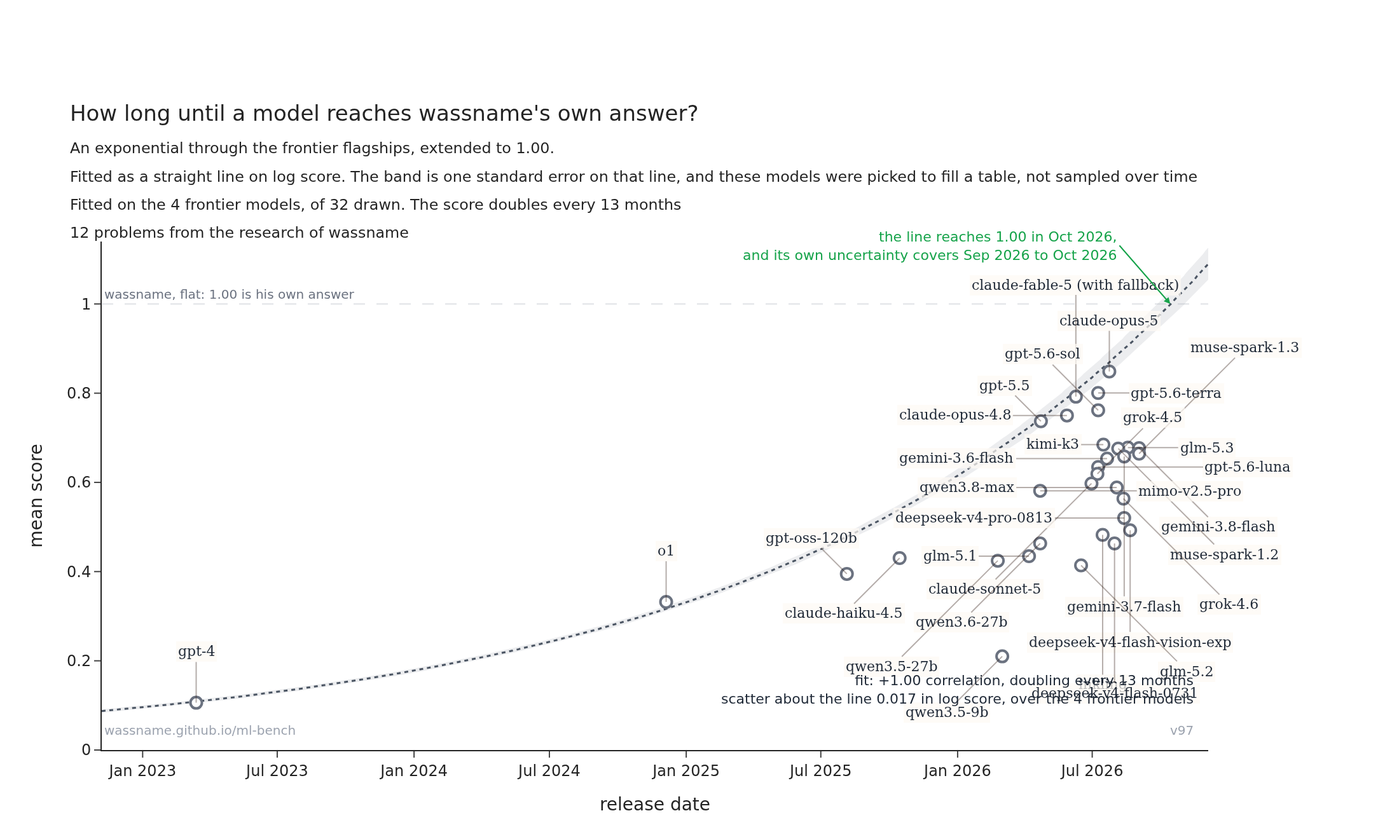
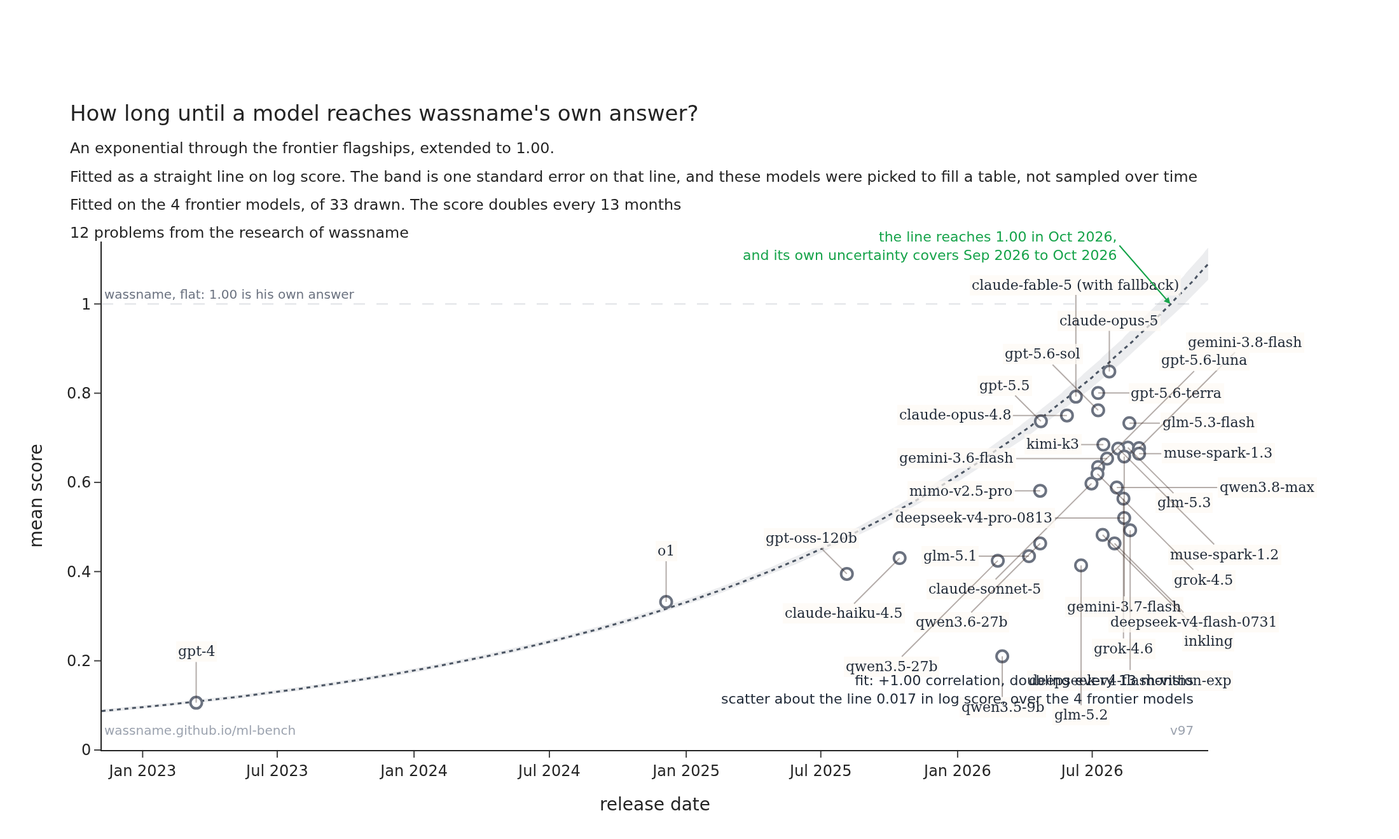
results 2026-09-11

diff --git a/bench.py b/bench.py
@@ -1430,7 +1430,7 @@ def _ktok_text(row: dict) -> str:
     share = row.get("reasoning share")
     return (f"{row['tok/answer']:,.0f} tokens per answer, reasoning included, against a requested "
             f"{ANSWER_MAX_TOKENS:,}-token thinking budget"
-            + (f"<br>reasoning effort '{EFFORT_ARM}', and "
+            + (f"<br>reasoning effort '{EFFORT_ARM}' (this model's lowest listed thinking rung), "
                f"{share:.0%} of the output was reasoning" if share is not None else ""))
 
 

diff --git a/results.md b/results.md
@@ -16,45 +16,45 @@ means a model has to work the answer out rather than recall it. Code and numbers
 12 problems from the research of [wassname](https://wassname.org). The best model scores
 0.85, where 1.00 is wassname's own answer.
 
-| model                            |   score↑ | +-     | answered   |   answers/q |     $/run↓ |   tok/answer↓ |   pts/Mtok↑ |   AP#1↑ |   CW#2↑ |   KL#3↑ |   MC#4↑ |   NP#5↑ |   OL#6↑ |   PC#7↑ |   SV#8↑ |   TR#9↑ |   TS#10↑ |   VG#11↑ |   VJ#12↑ |
-|:---------------------------------|------------------:|:-------|:-----------------------|------------:|-----------:|----------------------------:|------------------------:|----------------------------:|---------------------------------:|-----------------------------:|---------------------:|----------------------:|--------------------------:|----------------------:|-----------------------:|-----------------------:|------------------------------:|--------------------------------:|----------------------:|
-| claude-fable-5.1 (with fallback) |         **+0.85** | ±0.050 | 11/12                  |           1 |       $2.0 |                       3,033 |                      23 |                       +0.72 |                            +0.78 |                        +0.58 |                +0.86 |                 +1.06 |                     +1.11 |             **+0.77** |              **+0.88** |                  +0.97 |                         +0.81 |                         *+0.61* |             **+1.06** |
-| claude-opus-5                    |         **+0.85** | ±0.050 | 12/12                  |           1 |      $0.78 |                       2,354 |                      30 |                       +0.73 |                            +0.79 |                        +0.62 |            **+0.96** |                 +1.01 |                     +1.06 |             **+0.80** |                  +0.67 |                  +1.06 |                         +0.81 |                           +0.61 |             **+1.06** |
-| gpt-6-astra                      |         **+0.82** | ±0.054 | 12/12                  |           1 |      $0.87 |                       1,354 |                      50 |                       +0.73 |                            +0.83 |                        +0.66 |                +0.61 |                 +1.07 |                     +1.07 |                 +0.74 |              **+0.87** |                  +0.51 |                         +0.89 |                           +0.76 |             **+1.07** |
-| gpt-5.6-terra                    |         **+0.80** | ±0.043 | 12/12                  |           1 |      $0.46 |                       3,110 |                      21 |                       +0.60 |                            +0.57 |                    **+0.96** |                +0.72 |                 +0.97 |                     +1.01 |                 +0.74 |              **+0.85** |                  +0.63 |                         +0.82 |                       **+0.83** |                 +0.91 |
-| claude-fable-5 (with fallback)   |         **+0.79** | ±0.047 | 9/12                   |           1 |      $0.98 |                       1,444 |                      46 |                     *+0.73* |                            +0.79 |                        +0.71 |                +0.72 |                 +0.89 |                   *+1.06* |                 +0.69 |                *+0.67* |              **+1.14** |                         +0.67 |                           +0.61 |                 +0.82 |
-| gpt-5.6-sol                      |             +0.76 | ±0.095 | 12/12                  |           1 |      $0.23 |                       1,809 |                      35 |                       +0.73 |                            -0.10 |                        +0.88 |                +0.81 |             **+1.13** |                     +1.01 |             **+0.79** |              **+0.85** |                  +0.47 |                     **+0.96** |                           +0.56 |             **+1.04** |
-| claude-opus-4.8                  |             +0.75 | ±0.083 | 12/12                  |           1 |      $0.79 |                       2,444 |                      26 |                       +0.70 |                        **+0.88** |                        +0.55 |                +0.08 |                 +0.91 |                     +1.06 |                 +0.69 |                  +0.52 |                  +1.06 |                         +0.86 |                           +0.64 |             **+1.06** |
-| gpt-5.5                          |             +0.74 | ±0.078 | 12/12                  |           1 |      $0.99 |                       2,605 |                      24 |                       +0.73 |                            +0.74 |                        +0.51 |                +0.22 |                 +1.01 |                 **+1.17** |                 +0.60 |                  +0.76 |                  +0.43 |                     **+0.95** |                           +0.73 |                 +0.99 |
-| kimi-k3                          |             +0.68 | ±0.067 | 12/12                  |           1 |      $0.30 |                       1,992 |                      29 |                       +0.37 |                            +0.69 |                        +0.55 |                +0.26 |                 +1.01 |                     +1.02 |                 +0.70 |                  +0.69 |                  +0.71 |                         +0.72 |                           +0.55 |                 +0.94 |
-| glm-5.3                          |             +0.68 | ±0.074 | 12/12                  |           1 |     $0.081 |                       1,345 |                      42 |                       +0.73 |                            +0.19 |                        +0.49 |                +0.38 |                 +0.97 |                     +1.03 |             **+0.81** |              **+0.83** |                  +0.43 |                         +0.67 |                           +0.69 |                 +0.89 |
-| gemini-3.8-flash                 |             +0.68 | ±0.078 | 12/12                  |           1 |     $0.063 |                       1,277 |                      44 |                       +0.62 |                            +0.03 |                        +0.55 |                +0.81 |                 +0.99 |                     +1.04 |             **+0.79** |                  +0.77 |                  +0.46 |                         +0.61 |                           +0.59 |                 +0.87 |
-| muse-spark-1.2                   |             +0.68 | ±0.093 | 12/12                  |           1 |      $0.10 |                       1,880 |                      30 |                       +0.73 |                            +0.06 |                        +0.69 |                +0.18 |                 +1.01 |                     +1.11 |                 +0.52 |              **+0.84** |                  +0.51 |                         +0.77 |                           +0.69 |                 +1.01 |
-| muse-spark-1.3                   |             +0.66 | ±0.071 | 12/12                  |           1 |     $0.081 |                       1,406 |                      39 |                       +0.66 |                            +0.61 |                        +0.51 |                +0.15 |                 +1.01 |                     +1.06 |                 +0.55 |                  +0.82 |                  +0.59 |                         +0.64 |                           +0.53 |                 +0.86 |
-| gemini-3.7-flash                 |             +0.66 | ±0.060 | 12/12                  |           1 |     $0.062 |                       1,249 |                      44 |                       +0.74 |                            +0.53 |                        +0.62 |                +0.22 |                 +0.97 |                     +0.96 |                 +0.63 |                  +0.62 |                  +0.51 |                         +0.75 |                           +0.52 |                 +0.84 |
-| gemini-3.6-flash                 |             +0.65 | ±0.059 | 12/12                  |           1 |     $0.070 |                       1,428 |                      38 |                       +0.69 |                            +0.57 |                        +0.44 |                +0.51 |                 +0.84 |                     +1.07 |                 +0.56 |                  +0.59 |                  +0.55 |                         +0.79 |                           +0.37 |                 +0.87 |
-| deepseek-v4.1-flash              |             +0.64 | ±0.095 | 12/12                  |           1 |     $0.082 |                       5,420 |                      10 |                       +0.71 |                            -0.06 |                        +0.78 |                +0.18 |                 +0.99 |                 **+1.13** |                 +0.61 |                  +0.44 |                  +0.73 |                         +0.60 |                       **+0.83** |                 +0.74 |
-| gpt-5.6-luna                     |             +0.63 | ±0.094 | 12/12                  |           1 |     $0.026 |                       1,742 |                      30 |                       +0.73 |                            -0.11 |                        +0.74 |                +0.17 |                 +1.01 |                     +0.93 |                 +0.76 |                  +0.61 |                  +0.46 |                         +0.84 |                       **+0.84** |                 +0.65 |
-| ox-alpha                         |             +0.63 | ±0.088 | 12/12                  |           1 |            |                       1,240 |                      42 |                       +0.59 |                            -0.05 |                        +0.60 |                +0.21 |                 +0.89 |                     +1.09 |                 +0.73 |                  +0.64 |                  +0.65 |                         +0.63 |                           +0.61 |                 +0.93 |
-| grok-4.5                         |             +0.62 | ±0.076 | 12/12                  |           1 |      $0.12 |                       1,396 |                      37 |                       +0.73 |                            +0.09 |                        +0.70 |                +0.29 |                 +0.87 |                     +1.08 |                 +0.61 |                  +0.73 |                  +0.51 |                         +0.74 |                           +0.42 |                 +0.67 |
-| claude-sonnet-5                  |             +0.60 | ±0.091 | 12/12                  |           1 |      $0.26 |                       2,016 |                      25 |                       +0.70 |                            -0.06 |                        +0.55 |                +0.09 |                 +0.97 |                     +1.01 |                 +0.58 |                  +0.54 |                  +0.57 |                         +0.81 |                           +0.65 |                 +0.76 |
-| qwen3.8-max                      |             +0.59 | ±0.079 | 12/12                  |           1 |            |                       4,123 |                      12 |                   **+0.80** |                            +0.02 |                        +0.72 |                +0.22 |                 +0.88 |                     +0.94 |                 +0.61 |                  +0.43 |                  +0.56 |                         +0.62 |                           +0.44 |                 +0.82 |
-| mimo-v2.5-pro                    |             +0.58 | ±0.070 | 12/12                  |           1 |     $0.077 |                       5,178 |                       9 |                       +0.73 |                            +0.13 |                        +0.43 |                +0.24 |                 +0.87 |                     +0.95 |                 +0.56 |                  +0.61 |                  +0.62 |                         +0.59 |                           +0.47 |                 +0.77 |
-| grok-4.6                         |             +0.56 | ±0.075 | 12/12                  |           1 |      $0.10 |                       1,169 |                      40 |                       +0.69 |                            -0.03 |                        +0.40 |                +0.29 |                 +0.76 |                     +0.85 |                 +0.58 |                  +0.66 |                  +0.61 |                         +0.53 |                           +0.51 |                 +0.92 |
-| deepseek-v4-pro-0813             |             +0.52 | ±0.067 | 12/12                  |           1 |      $0.13 |                       5,026 |                       9 |                       +0.63 |                            -0.06 |                        +0.51 |                +0.34 |                 +0.59 |                     +0.87 |                 +0.60 |                  +0.40 |                  +0.71 |                         +0.64 |                           +0.58 |                 +0.45 |
-| deepseek-v4-flash-vision-exp     |             +0.49 | ±0.082 | 12/12                  |           1 |     $0.041 |                       4,978 |                       8 |                       +0.69 |                            -0.08 |                        +0.35 |                +0.06 |                 +0.76 |                     +0.91 |                 +0.64 |                  +0.63 |                  +0.34 |                         +0.51 |                           +0.52 |                 +0.57 |
-| inkling                          |             +0.48 | ±0.076 | 12/12                  |           1 |     $0.044 |                         745 |                  **54** |                       +0.73 |                            -0.06 |                        +0.25 |                +0.20 |                 +0.92 |                     +0.60 |                 +0.59 |                  +0.51 |                  +0.46 |                         +0.45 |                           +0.42 |                 +0.71 |
-| qwen3.6-27b                      |             +0.46 | ±0.080 | 12/12                  |           1 |      $0.15 |                       6,038 |                       6 |                       +0.24 |                            -0.04 |                        +0.34 |                +0.17 |                 +0.86 |                     +0.97 |                 +0.58 |                  +0.45 |                  +0.53 |                         +0.49 |                           +0.53 |                 +0.45 |
-| deepseek-v4-flash-0731           |             +0.46 | ±0.080 | 12/12                  |           1 | **$0.012** |                       5,062 |                       8 |                       +0.42 |                            -0.03 |                        +0.53 |                +0.15 |                 +0.84 |                     +0.94 |                 +0.69 |                  +0.28 |                  +0.43 |                         +0.27 |                           +0.46 |                 +0.57 |
-| glm-5.1                          |             +0.43 | ±0.077 | 12/12                  |           1 |      $0.18 |                       4,681 |                       8 |                       +0.23 |                            -0.01 |                        +0.31 |                +0.04 |                 +0.74 |                     +0.74 |                 +0.58 |                  +0.27 |                  +0.49 |                         +0.78 |                           +0.49 |                 +0.57 |
-| claude-haiku-4.5                 |             +0.43 | ±0.083 | 12/12                  |           1 |     $0.089 |                       1,350 |                      27 |                       +0.72 |                            -0.07 |                        +0.34 |                +0.04 |                 +0.13 |                     +0.77 |                 +0.51 |                  +0.50 |                  +0.76 |                         +0.28 |                           +0.64 |                 +0.58 |
-| qwen3.5-27b                      |             +0.42 | ±0.072 | 12/12                  |           1 |      $0.11 |                       5,664 |                       6 |                       +0.33 |                            +0.01 |                        +0.28 |                +0.04 |                 +0.80 |                     +0.67 |                 +0.58 |                  +0.28 |                  +0.61 |                         +0.44 |                           +0.39 |                 +0.66 |
-| glm-5.2                          |             +0.41 | ±0.071 | 12/12                  |           1 |      $0.19 |                       4,985 |                       7 |                       +0.35 |                            +0.17 |                        +0.51 |                -0.06 |                 +0.49 |                     +0.88 |                 +0.51 |                  +0.36 |                  +0.59 |                         +0.63 |                           +0.35 |                 +0.21 |
-| gpt-oss-120b                     |             +0.39 | ±0.079 | 12/12                  |           1 |            |                             |                         |                       +0.37 |                            -0.03 |                        +0.31 |                +0.13 |                 +0.07 |                     +0.83 |                 +0.65 |                  +0.36 |                  +0.66 |                         +0.28 |                           +0.36 |                 +0.76 |
-| o1                               |             +0.33 | ±0.070 | 12/12                  |           1 |       $2.4 |                       3,120 |                       9 |                       +0.39 |                            -0.06 |                        +0.14 |                +0.02 |                 +0.40 |                     +0.71 |                 +0.56 |                  +0.09 |                  +0.51 |                         +0.48 |                           +0.23 |                 +0.51 |
-| qwen3.5-9b                       |             +0.21 | ±0.069 | 12/12                  |           1 |     $0.014 |                       6,871 |                       3 |                       +0.24 |                            -0.06 |                        +0.03 |                -0.01 |                 -0.01 |                     +0.35 |                 +0.58 |                  +0.37 |                  -0.16 |                         +0.38 |                           +0.44 |                 +0.38 |
-| gpt-4                            |             +0.11 | ±0.053 | 12/12                  |           1 |      $0.58 |                     **502** |                      18 |                       +0.30 |                            -0.13 |                        +0.33 |                -0.12 |                 +0.07 |                     +0.20 |                 +0.29 |                  +0.10 |                  -0.10 |                         +0.29 |                           +0.15 |                 -0.12 |
-| minimax-m3                       |                   |        | 6/12                   |           1 |     $0.090 |                       5,985 |                         |                           * |                            +0.00 |                        +0.45 |                    * |                 +0.88 |                     +0.93 |                 +0.67 |                      * |                      * |                             * |                           +0.62 |                     * |
+| model                            |   score↑ | +-     | answered   |   answers/q |      $/run↓ |   tok/answer↓ |   pts/Mtok↑ |   AP#1↑ |   CW#2↑ |   KL#3↑ |   MC#4↑ |   NP#5↑ |   OL#6↑ |   PC#7↑ |   SV#8↑ |   TR#9↑ |   TS#10↑ |   VG#11↑ |   VJ#12↑ |
+|:---------------------------------|------------------:|:-------|:-----------------------|------------:|------------:|----------------------------:|------------------------:|----------------------------:|---------------------------------:|-----------------------------:|---------------------:|----------------------:|--------------------------:|----------------------:|-----------------------:|-----------------------:|------------------------------:|--------------------------------:|----------------------:|
+| claude-fable-5.1 (with fallback) |         **+0.85** | ±0.050 | 11/12                  |           1 |        $2.0 |                       3,033 |                      23 |                       +0.72 |                            +0.78 |                        +0.58 |                +0.86 |                 +1.06 |                     +1.11 |             **+0.77** |              **+0.88** |                  +0.97 |                         +0.81 |                         *+0.61* |             **+1.06** |
+| claude-opus-5                    |         **+0.85** | ±0.050 | 12/12                  |           1 |       $0.78 |                       2,354 |                      30 |                       +0.73 |                            +0.79 |                        +0.62 |            **+0.96** |                 +1.01 |                     +1.06 |             **+0.80** |                  +0.67 |                  +1.06 |                         +0.81 |                           +0.61 |             **+1.06** |
+| gpt-6-astra                      |         **+0.82** | ±0.054 | 12/12                  |           1 |       $0.87 |                       1,354 |                      50 |                       +0.73 |                            +0.83 |                        +0.66 |                +0.61 |                 +1.07 |                     +1.07 |                 +0.74 |              **+0.87** |                  +0.51 |                         +0.89 |                           +0.76 |             **+1.07** |
+| gpt-5.6-terra                    |         **+0.80** | ±0.043 | 12/12                  |           1 |       $0.46 |                       3,110 |                      21 |                       +0.60 |                            +0.57 |                    **+0.96** |                +0.72 |                 +0.97 |                     +1.01 |                 +0.74 |              **+0.85** |                  +0.63 |                         +0.82 |                       **+0.83** |                 +0.91 |
+| claude-fable-5 (with fallback)   |         **+0.79** | ±0.047 | 9/12                   |           1 |       $0.98 |                       1,444 |                      46 |                     *+0.73* |                            +0.79 |                        +0.71 |                +0.72 |                 +0.89 |                   *+1.06* |                 +0.69 |                *+0.67* |              **+1.14** |                         +0.67 |                           +0.61 |                 +0.82 |
+| gpt-5.6-sol                      |             +0.76 | ±0.095 | 12/12                  |           1 |       $0.23 |                       1,809 |                      35 |                       +0.73 |                            -0.10 |                        +0.88 |                +0.81 |             **+1.13** |                     +1.01 |             **+0.79** |              **+0.85** |                  +0.47 |                     **+0.96** |                           +0.56 |             **+1.04** |
+| claude-opus-4.8                  |             +0.75 | ±0.083 | 12/12                  |           1 |       $0.79 |                       2,444 |                      26 |                       +0.70 |                        **+0.88** |                        +0.55 |                +0.08 |                 +0.91 |                     +1.06 |                 +0.69 |                  +0.52 |                  +1.06 |                         +0.86 |                           +0.64 |             **+1.06** |
+| gpt-5.5                          |             +0.74 | ±0.078 | 12/12                  |           1 |       $0.99 |                       2,605 |                      24 |                       +0.73 |                            +0.74 |                        +0.51 |                +0.22 |                 +1.01 |                 **+1.17** |                 +0.60 |                  +0.76 |                  +0.43 |                     **+0.95** |                           +0.73 |                 +0.99 |
+| glm-5.3-flash                    |             +0.73 | ±0.051 | 12/12                  |           1 | **$0.0098** |                       1,456 |                      42 |                       +0.70 |                            +0.49 |                        +0.65 |                +0.74 |                 +0.94 |                     +1.11 |                 +0.58 |                  +0.66 |                  +0.62 |                         +0.64 |                           +0.73 |                 +0.95 |
+| kimi-k3                          |             +0.68 | ±0.067 | 12/12                  |           1 |       $0.30 |                       1,992 |                      29 |                       +0.37 |                            +0.69 |                        +0.55 |                +0.26 |                 +1.01 |                     +1.02 |                 +0.70 |                  +0.69 |                  +0.71 |                         +0.72 |                           +0.55 |                 +0.94 |
+| glm-5.3                          |             +0.68 | ±0.074 | 12/12                  |           1 |      $0.081 |                       1,345 |                      42 |                       +0.73 |                            +0.19 |                        +0.49 |                +0.38 |                 +0.97 |                     +1.03 |             **+0.81** |              **+0.83** |                  +0.43 |                         +0.67 |                           +0.69 |                 +0.89 |
+| gemini-3.8-flash                 |             +0.68 | ±0.078 | 12/12                  |           1 |      $0.063 |                       1,277 |                      44 |                       +0.62 |                            +0.03 |                        +0.55 |                +0.81 |                 +0.99 |                     +1.04 |             **+0.79** |                  +0.77 |                  +0.46 |                         +0.61 |                           +0.59 |                 +0.87 |
+| muse-spark-1.2                   |             +0.68 | ±0.093 | 12/12                  |           1 |       $0.10 |                       1,880 |                      30 |                       +0.73 |                            +0.06 |                        +0.69 |                +0.18 |                 +1.01 |                     +1.11 |                 +0.52 |              **+0.84** |                  +0.51 |                         +0.77 |                           +0.69 |                 +1.01 |
+| muse-spark-1.3                   |             +0.66 | ±0.071 | 12/12                  |           1 |      $0.081 |                       1,406 |                      39 |                       +0.66 |                            +0.61 |                        +0.51 |                +0.15 |                 +1.01 |                     +1.06 |                 +0.55 |                  +0.82 |                  +0.59 |                         +0.64 |                           +0.53 |                 +0.86 |
+| gemini-3.7-flash                 |             +0.66 | ±0.060 | 12/12                  |           1 |      $0.062 |                       1,249 |                      44 |                       +0.74 |                            +0.53 |                        +0.62 |                +0.22 |                 +0.97 |                     +0.96 |                 +0.63 |                  +0.62 |                  +0.51 |                         +0.75 |                           +0.52 |                 +0.84 |
+| gemini-3.6-flash                 |             +0.65 | ±0.059 | 12/12                  |           1 |      $0.070 |                       1,428 |                      38 |                       +0.69 |                            +0.57 |                        +0.44 |                +0.51 |                 +0.84 |                     +1.07 |                 +0.56 |                  +0.59 |                  +0.55 |                         +0.79 |                           +0.37 |                 +0.87 |
+| deepseek-v4.1-flash              |             +0.64 | ±0.095 | 12/12                  |           1 |      $0.082 |                       5,420 |                      10 |                       +0.71 |                            -0.06 |                        +0.78 |                +0.18 |                 +0.99 |                 **+1.13** |                 +0.61 |                  +0.44 |                  +0.73 |                         +0.60 |                       **+0.83** |                 +0.74 |
+| gpt-5.6-luna                     |             +0.63 | ±0.094 | 12/12                  |           1 |      $0.026 |                       1,742 |                      30 |                       +0.73 |                            -0.11 |                        +0.74 |                +0.17 |                 +1.01 |                     +0.93 |                 +0.76 |                  +0.61 |                  +0.46 |                         +0.84 |                       **+0.84** |                 +0.65 |
+| grok-4.5                         |             +0.62 | ±0.076 | 12/12                  |           1 |       $0.12 |                       1,396 |                      37 |                       +0.73 |                            +0.09 |                        +0.70 |                +0.29 |                 +0.87 |                     +1.08 |                 +0.61 |                  +0.73 |                  +0.51 |                         +0.74 |                           +0.42 |                 +0.67 |
+| claude-sonnet-5                  |             +0.60 | ±0.091 | 12/12                  |           1 |       $0.26 |                       2,016 |                      25 |                       +0.70 |                            -0.06 |                        +0.55 |                +0.09 |                 +0.97 |                     +1.01 |                 +0.58 |                  +0.54 |                  +0.57 |                         +0.81 |                           +0.65 |                 +0.76 |
+| qwen3.8-max                      |             +0.59 | ±0.079 | 12/12                  |           1 |             |                       4,123 |                      12 |                   **+0.80** |                            +0.02 |                        +0.72 |                +0.22 |                 +0.88 |                     +0.94 |                 +0.61 |                  +0.43 |                  +0.56 |                         +0.62 |                           +0.44 |                 +0.82 |
+| mimo-v2.5-pro                    |             +0.58 | ±0.070 | 12/12                  |           1 |      $0.077 |                       5,178 |                       9 |                       +0.73 |                            +0.13 |                        +0.43 |                +0.24 |                 +0.87 |                     +0.95 |                 +0.56 |                  +0.61 |                  +0.62 |                         +0.59 |                           +0.47 |                 +0.77 |
+| grok-4.6                         |             +0.56 | ±0.075 | 12/12                  |           1 |       $0.10 |                       1,169 |                      40 |                       +0.69 |                            -0.03 |                        +0.40 |                +0.29 |                 +0.76 |                     +0.85 |                 +0.58 |                  +0.66 |                  +0.61 |                         +0.53 |                           +0.51 |                 +0.92 |
+| deepseek-v4-pro-0813             |             +0.52 | ±0.067 | 12/12                  |           1 |       $0.13 |                       5,026 |                       9 |                       +0.63 |                            -0.06 |                        +0.51 |                +0.34 |                 +0.59 |                     +0.87 |                 +0.60 |                  +0.40 |                  +0.71 |                         +0.64 |                           +0.58 |                 +0.45 |
+| deepseek-v4-flash-vision-exp     |             +0.49 | ±0.082 | 12/12                  |           1 |      $0.041 |                       4,978 |                       8 |                       +0.69 |                            -0.08 |                        +0.35 |                +0.06 |                 +0.76 |                     +0.91 |                 +0.64 |                  +0.63 |                  +0.34 |                         +0.51 |                           +0.52 |                 +0.57 |
+| inkling                          |             +0.48 | ±0.076 | 12/12                  |           1 |      $0.044 |                         745 |                  **54** |                       +0.73 |                            -0.06 |                        +0.25 |                +0.20 |                 +0.92 |                     +0.60 |                 +0.59 |                  +0.51 |                  +0.46 |                         +0.45 |                           +0.42 |                 +0.71 |
+| qwen3.6-27b                      |             +0.46 | ±0.080 | 12/12                  |           1 |       $0.15 |                       6,038 |                       6 |                       +0.24 |                            -0.04 |                        +0.34 |                +0.17 |                 +0.86 |                     +0.97 |                 +0.58 |                  +0.45 |                  +0.53 |                         +0.49 |                           +0.53 |                 +0.45 |
+| deepseek-v4-flash-0731           |             +0.46 | ±0.080 | 12/12                  |           1 |      $0.012 |                       5,062 |                       8 |                       +0.42 |                            -0.03 |                        +0.53 |                +0.15 |                 +0.84 |                     +0.94 |                 +0.69 |                  +0.28 |                  +0.43 |                         +0.27 |                           +0.46 |                 +0.57 |
+| glm-5.1                          |             +0.43 | ±0.077 | 12/12                  |           1 |       $0.18 |                       4,681 |                       8 |                       +0.23 |                            -0.01 |                        +0.31 |                +0.04 |                 +0.74 |                     +0.74 |                 +0.58 |                  +0.27 |                  +0.49 |                         +0.78 |                           +0.49 |                 +0.57 |
+| claude-haiku-4.5                 |             +0.43 | ±0.083 | 12/12                  |           1 |      $0.089 |                       1,350 |                      27 |                       +0.72 |                            -0.07 |                        +0.34 |                +0.04 |                 +0.13 |                     +0.77 |                 +0.51 |                  +0.50 |                  +0.76 |                         +0.28 |                           +0.64 |                 +0.58 |
+| qwen3.5-27b                      |             +0.42 | ±0.072 | 12/12                  |           1 |       $0.11 |                       5,664 |                       6 |                       +0.33 |                            +0.01 |                        +0.28 |                +0.04 |                 +0.80 |                     +0.67 |                 +0.58 |                  +0.28 |                  +0.61 |                         +0.44 |                           +0.39 |                 +0.66 |
+| glm-5.2                          |             +0.41 | ±0.071 | 12/12                  |           1 |       $0.19 |                       4,985 |                       7 |                       +0.35 |                            +0.17 |                        +0.51 |                -0.06 |                 +0.49 |                     +0.88 |                 +0.51 |                  +0.36 |                  +0.59 |                         +0.63 |                           +0.35 |                 +0.21 |
+| gpt-oss-120b                     |             +0.39 | ±0.079 | 12/12                  |           1 |             |                             |                         |                       +0.37 |                            -0.03 |                        +0.31 |                +0.13 |                 +0.07 |                     +0.83 |                 +0.65 |                  +0.36 |                  +0.66 |                         +0.28 |                           +0.36 |                 +0.76 |
+| o1                               |             +0.33 | ±0.070 | 12/12                  |           1 |        $2.4 |                       3,120 |                       9 |                       +0.39 |                            -0.06 |                        +0.14 |                +0.02 |                 +0.40 |                     +0.71 |                 +0.56 |                  +0.09 |                  +0.51 |                         +0.48 |                           +0.23 |                 +0.51 |
+| qwen3.5-9b                       |             +0.21 | ±0.069 | 12/12                  |           1 |      $0.014 |                       6,871 |                       3 |                       +0.24 |                            -0.06 |                        +0.03 |                -0.01 |                 -0.01 |                     +0.35 |                 +0.58 |                  +0.37 |                  -0.16 |                         +0.38 |                           +0.44 |                 +0.38 |
+| gpt-4                            |             +0.11 | ±0.053 | 12/12                  |           1 |       $0.58 |                     **502** |                      18 |                       +0.30 |                            -0.13 |                        +0.33 |                -0.12 |                 +0.07 |                     +0.20 |                 +0.29 |                  +0.10 |                  -0.10 |                         +0.29 |                           +0.15 |                 -0.12 |
+| minimax-m3                       |                   |        | 6/12                   |           1 |      $0.090 |                       5,985 |                         |                           * |                            +0.00 |                        +0.45 |                    * |                 +0.88 |                     +0.93 |                 +0.67 |                      * |                      * |                             * |                           +0.62 |                     * |
 
 1.00 is on par with wassname's own answer, and a negative score means the answer hit a trap. Bold is
 used to mark the best value and every cell within one error bar of it. A * marks a question the model
